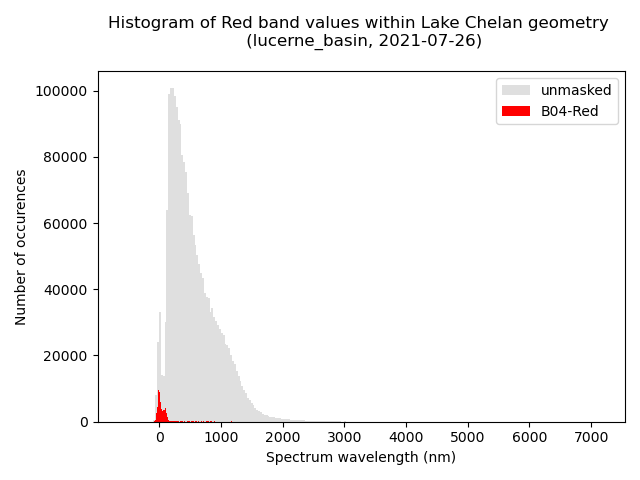
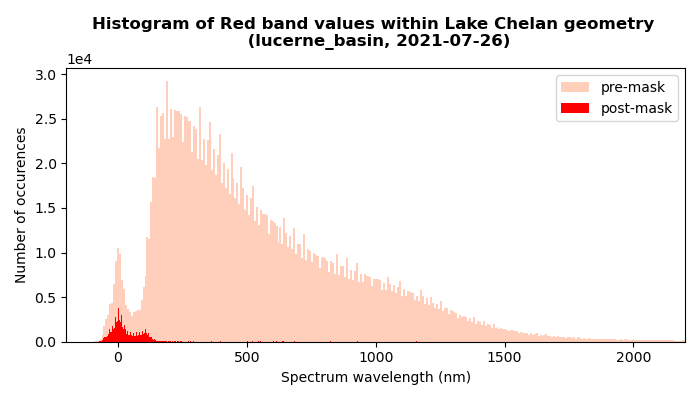
try try again

Changed region(s): [[0.0312, 0.03, 1.0, 0.96], [0.0, 0.27, 0.1562, 0.72]]

diff --git a/README.md b/README.md
@@ -20,12 +20,13 @@ During the 2021 Pacific Northwest heatwave from June 22 to July 2, the glaciers 
 Lake Chelan is located on the eastern slopes of the North Cascades. The slow ebb and flow of glaciers across millenia is the incredible force that formed the third deepest freshwater lake in the United States. This unique origin separates Lake Chelan into two basins: the Lucerne Basin to the northwest, and the Wapato Basin to the southeast. Figure 2 below shows the Lucerne Basin which encompasses the upper ~75% of the lake's reach and is much deeper than the Wapato Basin, reaching a maximum depth of 1486 ft. The Wapato Basin is much more shallow, with an average depth of 190 ft. [6]
 
 <figure>
-    <img src="./output/chelan_1_site-exploration/full/natural-color-comp_2021-07-11.png"
+    <img src="./output/chelan_1_site-exploration/lucerne_basin/natural-color-comp_2021-07-11.png"
          alt="full-expanse, natural-color-composition map 2021-07-11"
          title="full-expanse, natural-color-composition map 2021-07-11"         
          width="600"/>
     <figcaption><b>Fig.2 - Natural-color composition locale map for Lucerne Basin, Lake Chelan, WA (2021-07-11).</b></figcaption>
 </figure>
+<br>
 
 Lake Chelan has historically been an oligotrophic lake, meaning it is not highly productive in terms of algal growth and maintains a fairly clear water column [6]. Glacial meltwater commonly contains fine grained sediment, called glacial flour, which formed over millenia of weathering under the immense pressure of these glaciers [2]. As glaciers warm, the meltwater will transport glacial flour to the lake [2]. Glacial flour is so fine, that it stays suspended in the water column, much like silt. This cloud of suspended particles is measured as turbidity. When a lake becomes turbid, with sediment or organic matter, the cloudiness of the lake blocks light attenuation, disrupting several biotic processes [3][4][5].  
 
@@ -156,6 +157,7 @@ The following section provides raw summary results. Captions describe each figur
          width="700"/>
     <figcaption><b>Fig.3 - A visualization of available Landsat-8 and Sentinel-2 shots provided with the HLS notebook.</b></figcaption>
 </figure>
+<br><br>
 
 <figure>
     <img src="./output/chelan_0_query-data_2021/bokeh_plot.png"
@@ -164,6 +166,7 @@ The following section provides raw summary results. Captions describe each figur
          width="700"/>
     <figcaption><b>Fig.4 - A visualization of available Landsat-8 and Sentinel-2 shots after filtering for shots with less than 20% cloud cover.</b></figcaption>
 </figure>
+<br><br>
 
 ### chelan_1_site-exploration  
 
@@ -174,6 +177,7 @@ The following section provides raw summary results. Captions describe each figur
          width="800"/>
     <figcaption><b>Fig.5 - A timeseries representation of the natural-color composite images for Lucerne Basin, Lake Chelan, Wa.</b></figcaption>
 </figure>
+<br><br>
 
 ### chelan_2_rgb-analysis  
 
@@ -184,6 +188,7 @@ The following section provides raw summary results. Captions describe each figur
          width="600"/>
     <figcaption><b>Fig.6- A comparison of histograms of red band wavelength values when sampled across the entire raster versus sampling only masked values about the body of Lake Chelan, as defined by USGS polygon.</b></figcaption>
 </figure>  
+<br><br>
 
 <figure>
     <img src="./output/chelan_2_rgb-analysis/lucerne_basin/green-signal_2021-09-24.png"
@@ -192,6 +197,7 @@ The following section provides raw summary results. Captions describe each figur
          width="600"/>
     <figcaption><b>Fig.7 - A comparison of histograms of green band wavelength values when sampled across the entire raster versus sampling only masked values about the body of Lake Chelan, as defined by USGS polygon.</b></figcaption>
 </figure>  
+<br><br>
 
 <figure>
     <img src="./output/chelan_2_rgb-analysis/lucerne_basin/blue-signal_2021-09-24.png"
@@ -200,6 +206,7 @@ The following section provides raw summary results. Captions describe each figur
          width="600"/>
     <figcaption><b>Fig.8 - A comparison of histograms of blue band wavelength values when sampled across the entire raster versus sampling only masked values about the body of Lake Chelan, as defined by USGS polygon.</b></figcaption>
 </figure> 
+<br><br>
 
 <figure>
     <img src="./output/chelan_2_rgb-analysis/lucerne_basin/masked-RGB-signals.png"
@@ -207,7 +214,8 @@ The following section provides raw summary results. Captions describe each figur
          title="lucerne-basin, masked-RGB-signals 2021-09-24"         
          width="600"/>
     <figcaption><b>Fig.9 - Combined RBG signals sampled about the body of Lake Chelan, as defined by USGS polygon.</b></figcaption>
-</figure>
+</figure>  
+<br><br>
 
 <figure>
     <img src="./output/chelan_2_rgb-analysis/lucerne_basin/visualize-normalization.png"
@@ -216,6 +224,7 @@ The following section provides raw summary results. Captions describe each figur
          width="700"/>
     <figcaption><b>Fig.10 - A potential teaching tool visualizing the need for and result of normalization.</b></figcaption>
 </figure>
+<br><br>
 
 <figure>
     <img src="./output/chelan_2_rgb-analysis/lucerne_basin/index-ratio-comparison.png"
@@ -224,6 +233,7 @@ The following section provides raw summary results. Captions describe each figur
          width="700"/>
     <figcaption><b>Fig.11 - A comparison of index ratios and classification of signals from NDTI and NDSSI.</b></figcaption>
 </figure>
+<br><br>
 
 ### chelan_3_timeseries-visualization  
 (this notebook needs work)
@@ -237,6 +247,7 @@ The following section provides raw summary results. Captions describe each figur
          width="700"/>
     <figcaption><b>Fig.12 - Model configuration histogram without pre-normalization.</b></figcaption>
 </figure>
+<br><br>
 
 <figure>
     <img src="./output/chelan_4_affected-area-analysis/upper_lucerne_basin/model-configuration-histogram_2021-09-24.png"
@@ -245,6 +256,7 @@ The following section provides raw summary results. Captions describe each figur
          width="700"/>
     <figcaption><b>Fig.13 - Model configuration histogram with pre-normalization.</b></figcaption>
 </figure>
+<br><br>
 
 <figure>
     <img src="./output/chelan_4_affected-area-analysis/upper_lucerne_basin/NDTI_thresh_timeseries.png"
@@ -253,6 +265,7 @@ The following section provides raw summary results. Captions describe each figur
          width="800"/>
     <figcaption><b>Fig.14 - Timeseries of NDTI threshold mask, showing plume of turbidity in upper Lucerne Basin, Lake Chelan, WA.</b></figcaption>
 </figure>
+<br><br>
 
 <figure>
     <img src="./output/chelan_4_affected-area-analysis/upper_lucerne_basin/NDSSI_thresh_timeseries.png"
@@ -261,6 +274,7 @@ The following section provides raw summary results. Captions describe each figur
          width="800"/>
     <figcaption><b>Fig.15 - Timeseries of NDSSI threshold mask, showing plume of suspended solids in upper Lucerne Basin, Lake Chelan, WA.</b></figcaption>
 </figure>
+<br><br>
 
 <figure>
     <img src="./output/chelan_4_affected-area-analysis/upper_lucerne_basin/NDTI-NDSSI-signals-timeseries.png"
@@ -269,6 +283,7 @@ The following section provides raw summary results. Captions describe each figur
          width="700"/>
     <figcaption><b>Fig.16 - Timeseries of NDTI vs NDSSI signals in Lucerne Basin, Lake Chelan, WA.</b></figcaption>
 </figure>
+<br><br>
 
 ## Discussion
  
